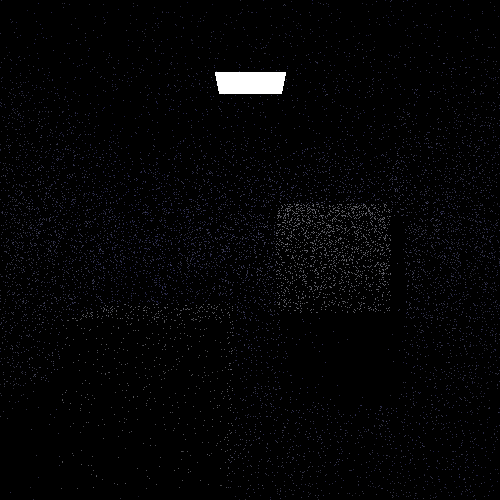
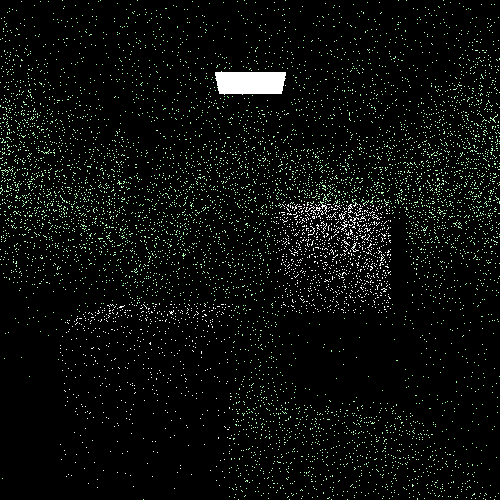
jojo

diff --git a/main.go b/main.go
@@ -318,9 +318,9 @@ func main() {
 	}
 	
 	// how many times a single pixel is sampled
-	pixel_samples     := 32
+	pixel_samples, err := strconv.Atoi(string(os.Args[1]))
 	// how many times a ray bounces
-	hops              := 3
+	hops               := 3
 	
 	renderer.SetDrawColor(0, 0, 0, 255)
 	renderer.Clear()
@@ -404,18 +404,11 @@ func render_frame_thread(start_x int, end_x int, start_y int, end_y int, camera 
 
 					// <update direction>
 					n := surface_normal(&surface_triangle)
-					
-					u1 := rand_float()
-					u2 := rand_float()
-					r := math.Sqrt(u1)
-					theta := 2 * math.Pi * u2
-					x1 := r * math.Cos(theta)
-					y1 := r * math.Sin(theta)
-					m := vec3.Vec3{x1, y1, math.Sqrt(max(0.0, 1.0 - u1))}
-					m.Normalize()
-					angle := math.Acos(m.Dot(n))*180/math.Pi // angle between n and m; converted radians to degrees
-					m.Rotate_around_normal(angle, n)
-					direction = m
+
+					direction = n
+					direction.Rotate_x(rand_neg_float()*89)
+					direction.Rotate_y(rand_neg_float()*89)
+					direction.Rotate_z(rand_neg_float()*89)
 
 					// </update direction>
 				}
@@ -424,7 +417,6 @@ func render_frame_thread(start_x int, end_x int, start_y int, end_y int, camera 
 					cur_color.Scale(cur_weight)
 					color.Add(cur_color)
 				}
-				
 			}
 			color.Scale(1.0/float64(samples))
 
@@ -436,9 +428,7 @@ func render_frame_thread(start_x int, end_x int, start_y int, end_y int, camera 
 			if color.Z > color.Y {
 				_max = color.Z
 			}
-			if _max != 0.0 && _max > 255.0 {
-				color.Scale(255.0/_max)
-			}
+			color.Scale(255.0/_max)
 
 			frame_buffer[x][y] = color
 			// gamma correction
